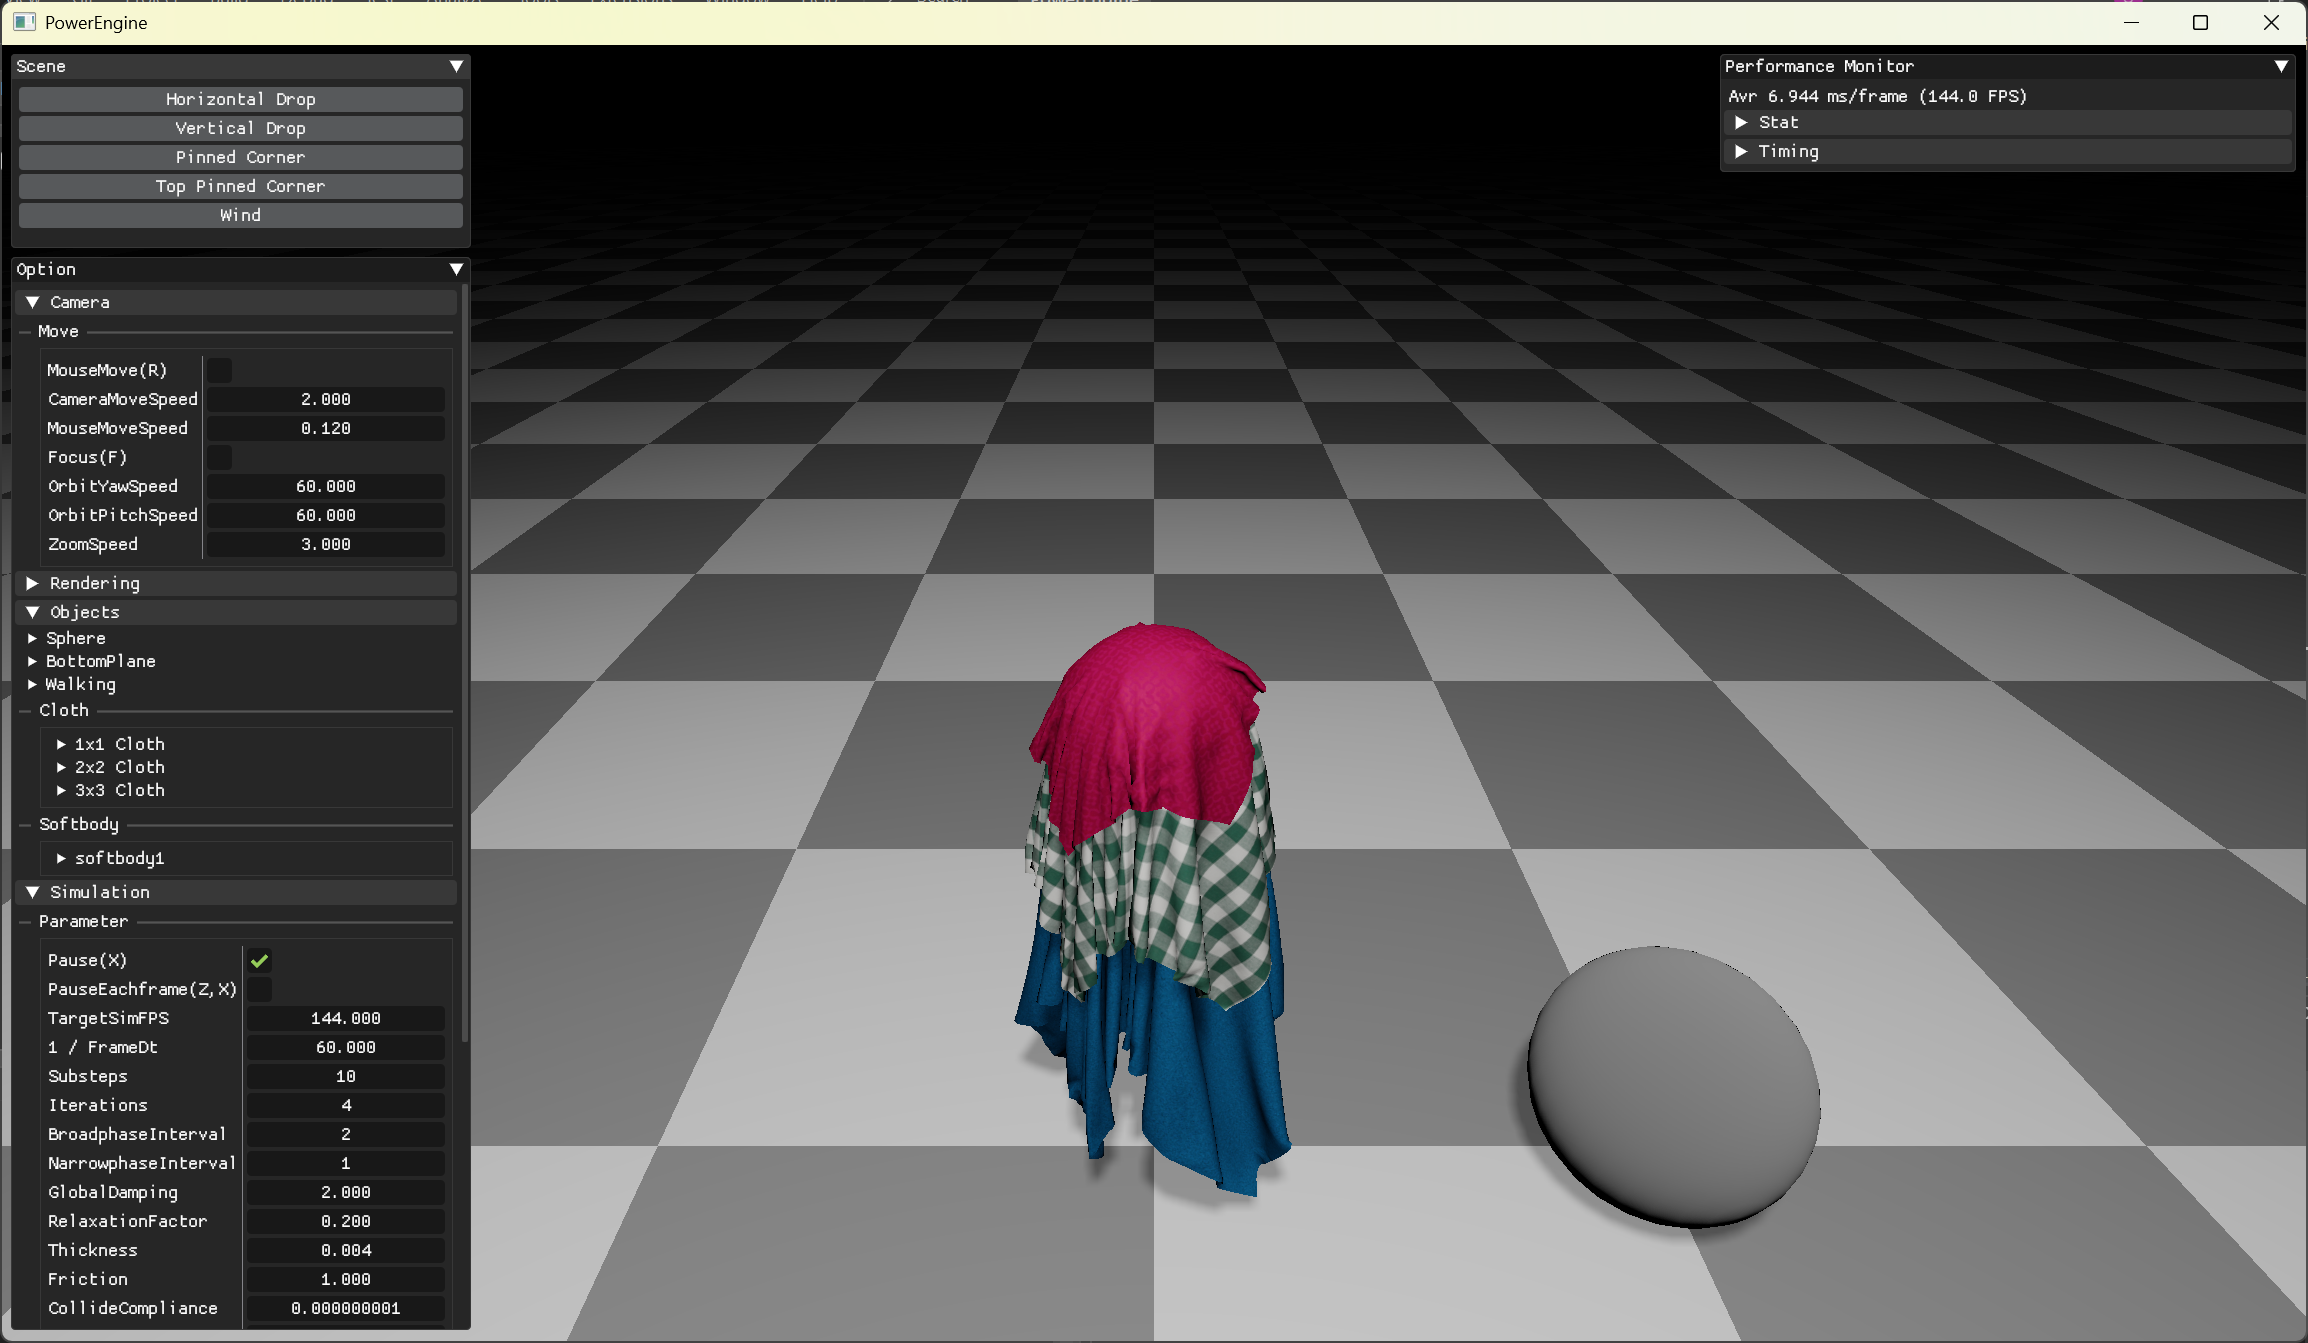
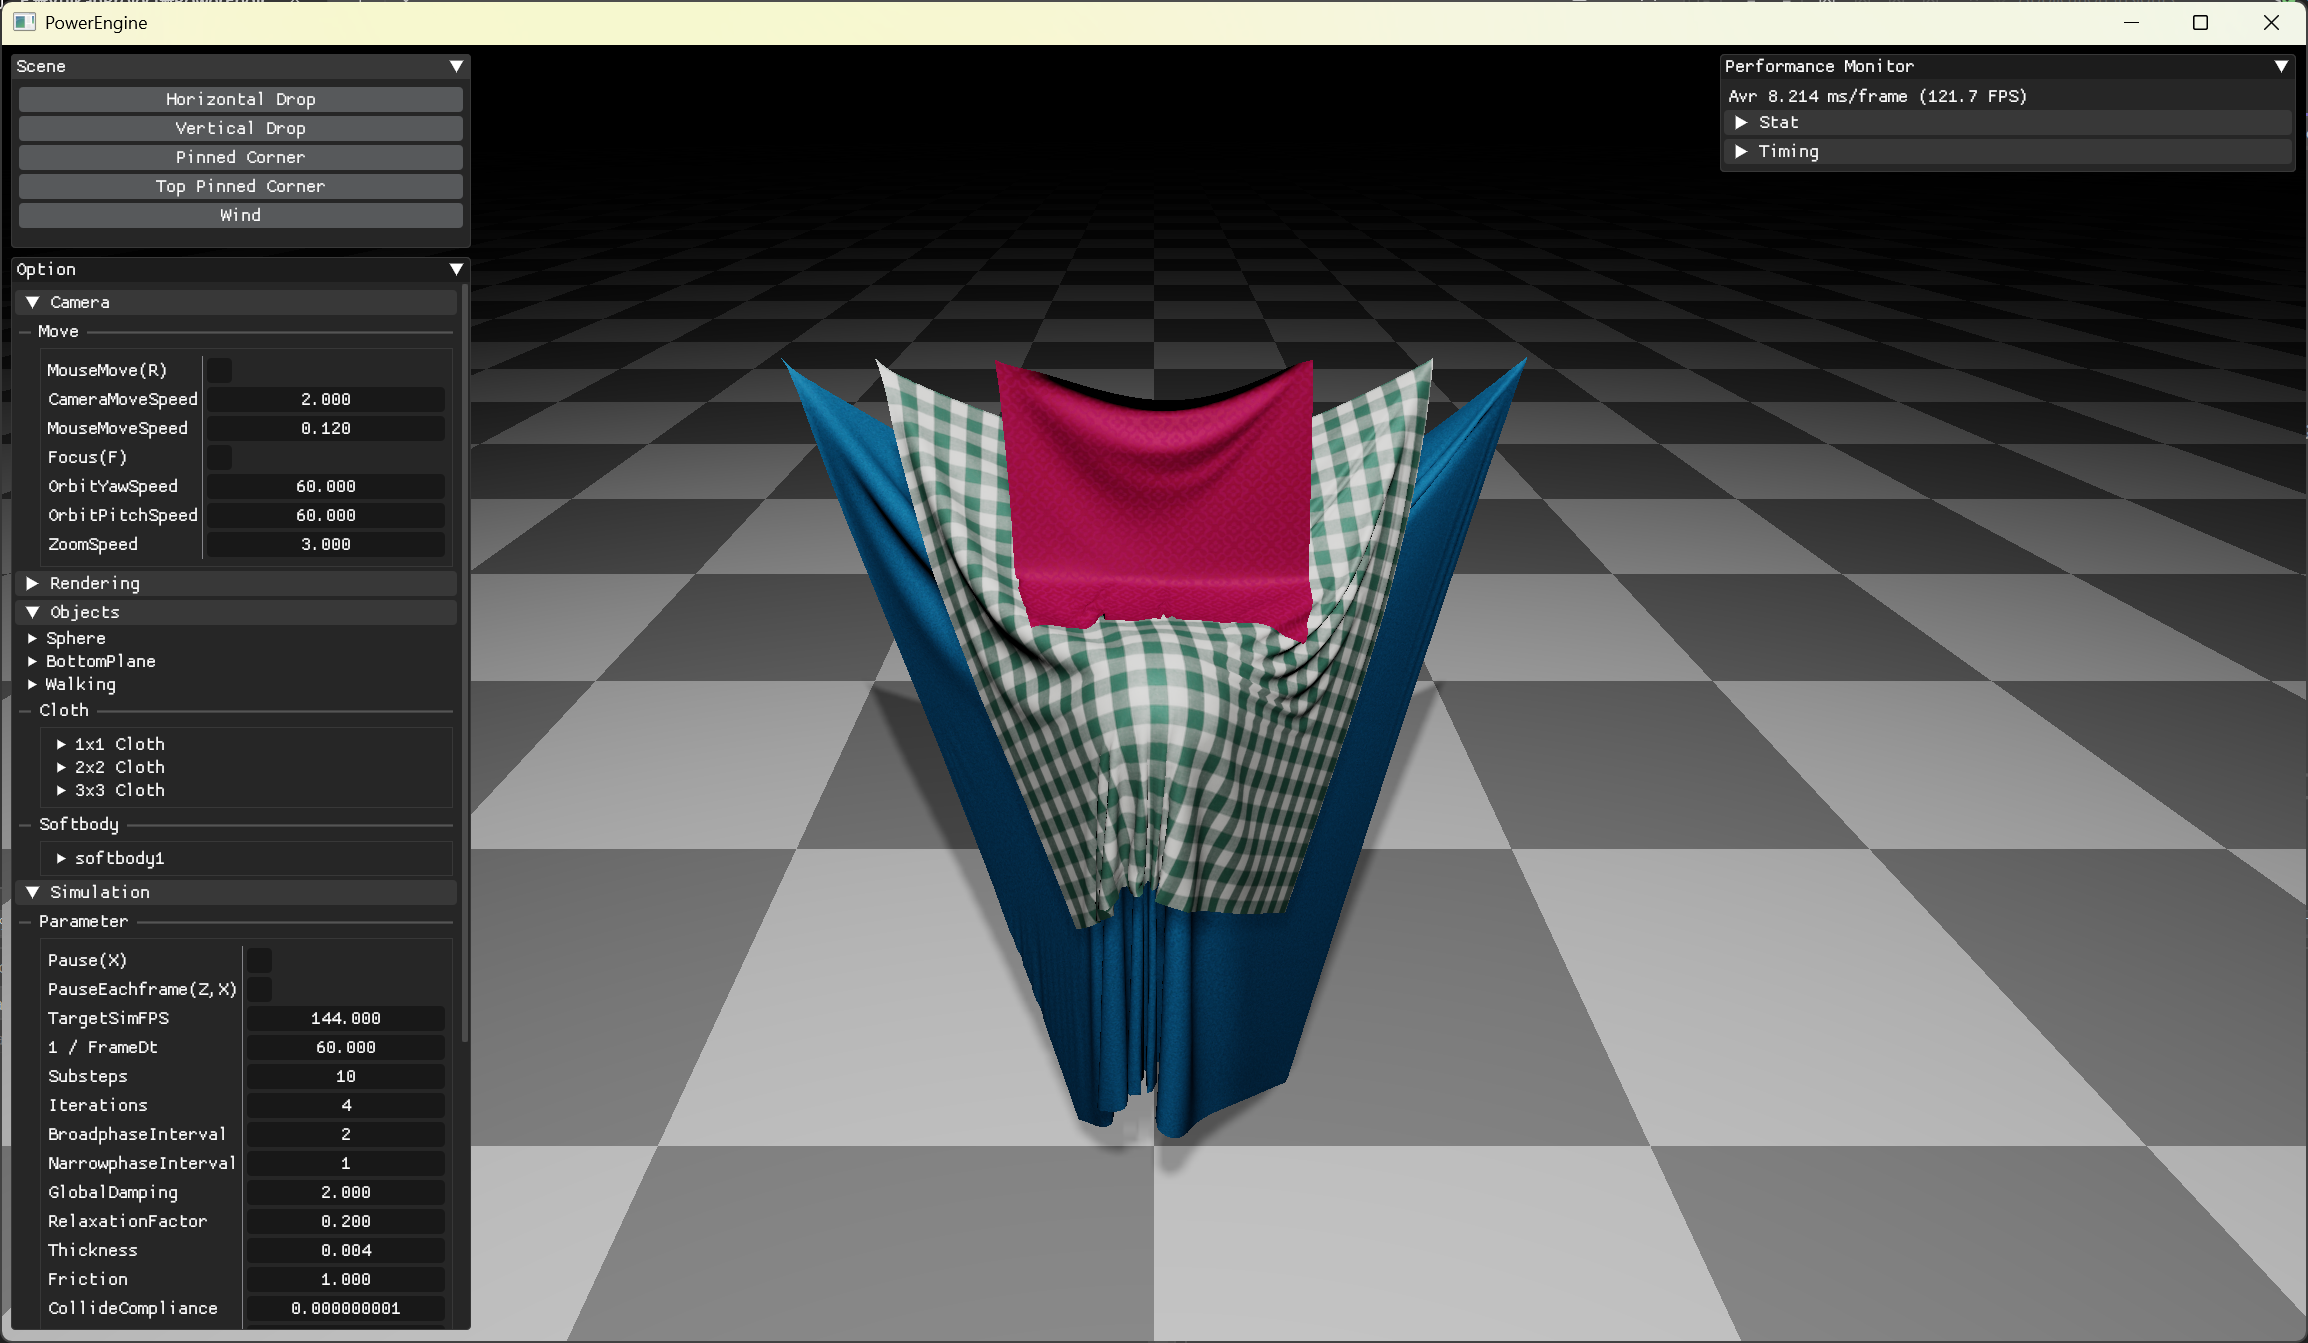
Update(README) : Update demo gif in readme

Changed region(s): [[0.3432, 0.2748, 0.6551, 0.9159], [0.6551, 0.7022, 0.8111, 0.9464]]

diff --git a/README.md b/README.md
@@ -4,7 +4,7 @@
 > Real-time oriented particle systems (cloth / softbody / fluid, etc.) built on a unified XPBD solver.
 
 <p align="center">
-  <img src="docs/media/preview.png" alt="PowerEngine preview" width="800" />
+  <img src="docs/media/preview.png" alt="PowerEngine preview" width="600" />
 </p>
 
 ---
@@ -19,6 +19,22 @@ Most real-time particle simulators either:
 PowerEngine aims to:
 - provide a **unified XPBD solver** that can cover multiple particle systems
 - keep the architecture **GPU-friendly** for real-time iteration
+
+---
+
+## Demo
+
+<p align="center">
+  <img src="docs/media/horizontal_drop.gif" alt="horizontal_drop" width="380" />
+  <img src="docs/media/vertical_drop.gif" alt="vertical_drop" width="380" />
+</p>
+<p align="center">
+  <img src="docs/media/pinned_corner.gif" alt="pinned_corner" width="380" />
+  <img src="docs/media/top_pinned_corner.gif" alt="top_pinned_corner" width="380" />
+</p>
+<p align="center">
+  <img src="docs/media/wind.gif" alt="wind" width="380" />
+</p>
 
 ---
 
